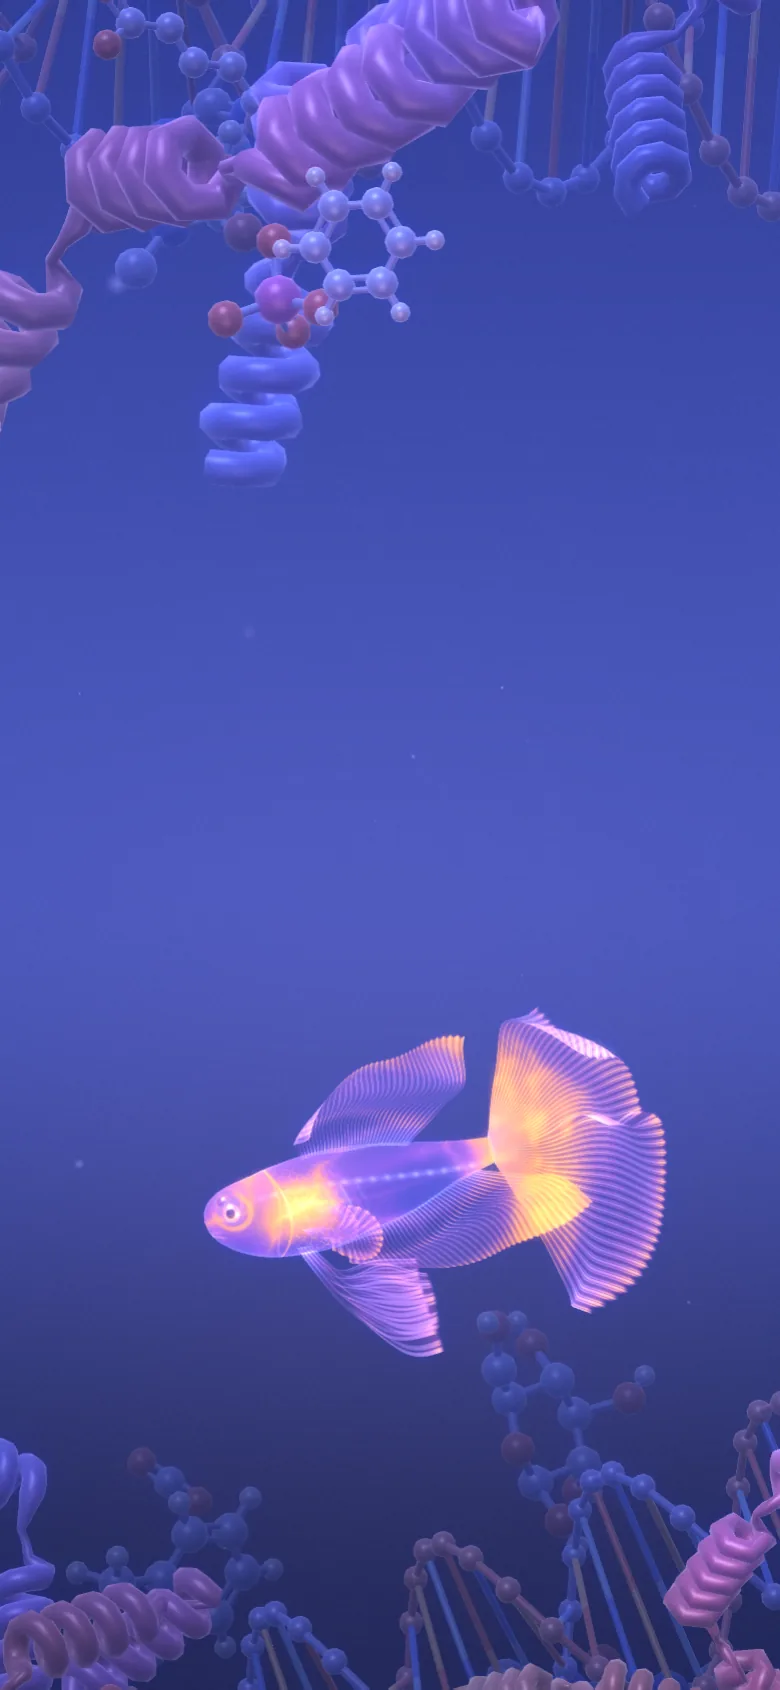
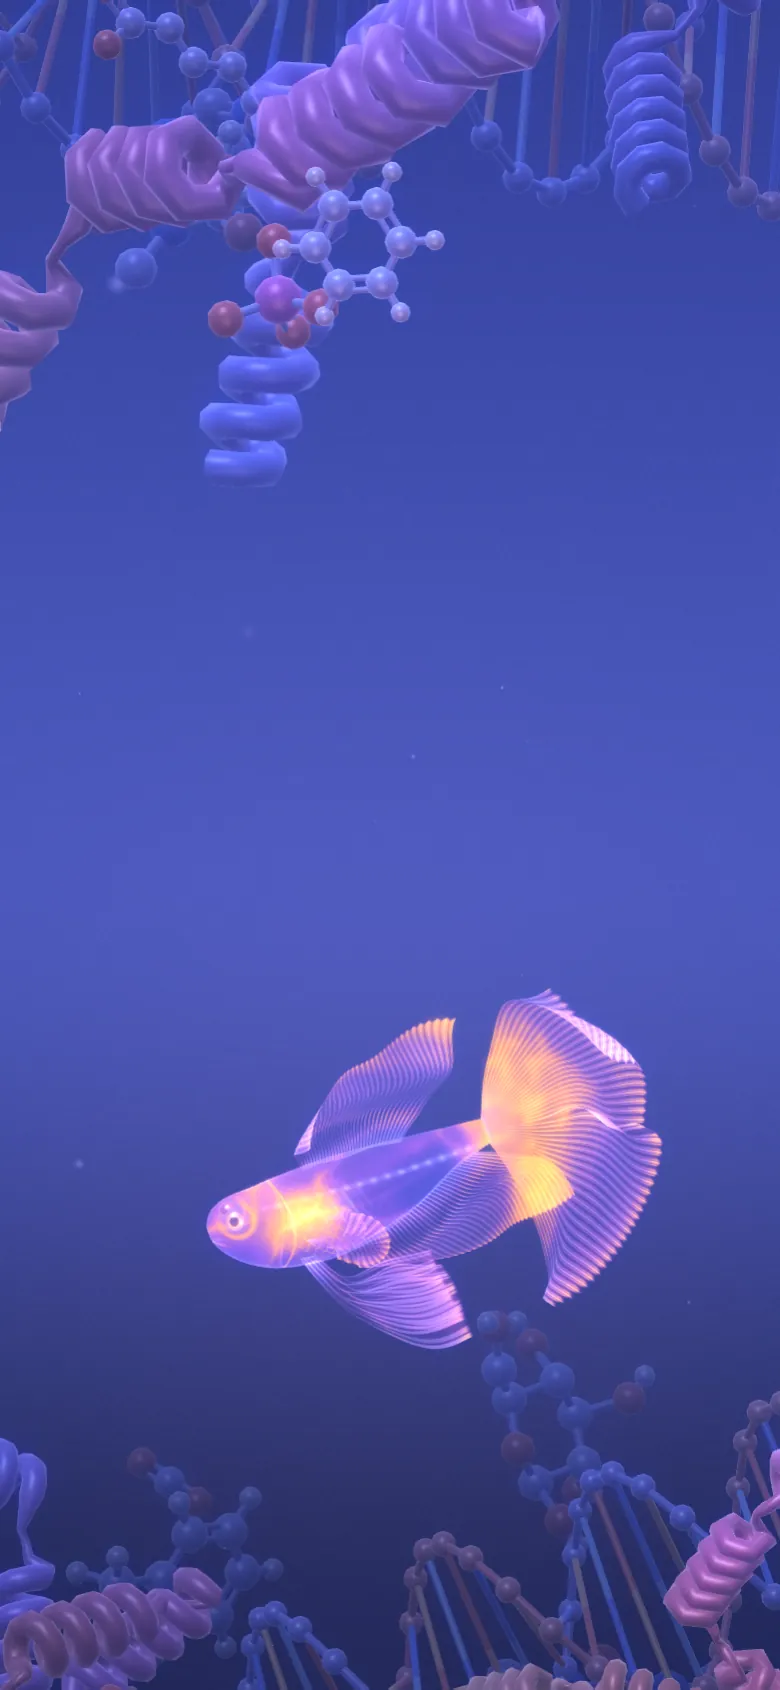
Make the fish body undulate like a swimming fish
A wave now runs from snout to tail and grows toward the tail. It is drawn
mostly in the image plane, since a lateral wave is invisible in side view,
and each body section tilts with the spine so fins and eyes follow it.
The touch zone and the click sparks use the same deformation as the shader.
Posters are regenerated with the new pose, and the README is updated.

Claude-Session: https://claude.ai/code/session_019G1kqDvjGATNWvKmmVUEiP

Changed region(s): [[0.2462, 0.5846, 0.8615, 0.8]]

diff --git a/assets/js/fish.js b/assets/js/fish.js
@@ -273,6 +273,47 @@ export function buildFishGeometry() {
 export const FISH_LENGTH = 1.36;    // museau au bout de la queue, en unités de corps
 const EYE_C = [xOf(EYE_T), yc(EYE_T) + halfHeight(EYE_T) * 0.30];
 
+// ------------------------------------------------------------------ la nage
+// Une onde court du museau à la queue en grandissant : la tête reste presque immobile, la queue balance le plus.
+// De profil, une onde latérale resterait invisible. Elle est donc dessinée surtout dans le plan de l'image (plane),
+// avec un peu de profondeur (depth) pour garder du relief. Chaque section du corps penche avec l'axe, comme dans un
+// corps qui se plie, et les nageoires, les yeux et la zone de toucher suivent la même déformation.
+const SWIM = { k: 7.0, env0: 0.30, plane: 0.88, depth: 0.46 };
+
+/** Déplace le point p (repère du poisson) comme le fait le shader : phase et amp viennent de la nage, bend du virage. */
+export function swimPoint(p, phase, amp, bend) {
+  const s = Math.min(1, Math.max(0, (0.5 - p.x) / FISH_LENGTH));
+  const env = SWIM.env0 + (1 - SWIM.env0) * s * s;
+  const ph = phase - s * SWIM.k;
+  const lat = amp * env * Math.sin(ph);
+  const dlat = amp * (2 * (1 - SWIM.env0) * s * Math.sin(ph) - env * SWIM.k * Math.cos(ph));
+  const sl = -SWIM.plane * dlat / FISH_LENGTH;
+  const cs = 1 / Math.sqrt(1 + sl * sl); const sn = sl * cs;
+  const v = p.y;
+  p.x -= v * sn;
+  p.y = SWIM.plane * lat + v * cs;
+  p.z += SWIM.depth * lat + bend * s * s;
+  return p;
+}
+
+const SWIM_GLSL = /* glsl */ `
+uniform float uPhase; uniform float uSwimAmp; uniform float uBend;
+void swim(inout vec3 p, inout vec3 n, float x){
+  float s = clamp((0.5 - x) / ${FISH_LENGTH.toFixed(2)}, 0.0, 1.0);                // du museau (0) au bout de la queue (1)
+  float env = ${SWIM.env0.toFixed(2)} + ${(1 - SWIM.env0).toFixed(2)} * s * s;
+  float ph = uPhase - s * ${SWIM.k.toFixed(2)};
+  float lat = uSwimAmp * env * sin(ph);
+  float dlat = uSwimAmp * (${(2 * (1 - SWIM.env0)).toFixed(2)} * s * sin(ph) - env * ${SWIM.k.toFixed(2)} * cos(ph));   // pente de l'écart le long du corps
+  float sl = -${SWIM.plane.toFixed(2)} * dlat / ${FISH_LENGTH.toFixed(2)};                      // pente de l'axe dans le plan de l'image
+  float cs = inversesqrt(1.0 + sl * sl); float sn = sl * cs;
+  float v = p.y;
+  p.x -= v * sn;
+  p.y = ${SWIM.plane.toFixed(2)} * lat + v * cs;
+  p.z += ${SWIM.depth.toFixed(2)} * lat + uBend * s * s;
+  n.xy = vec2(n.x * cs - n.y * sn, n.x * sn + n.y * cs);
+  n.x += (${SWIM.depth.toFixed(2)} * dlat + 2.0 * uBend * s) / ${FISH_LENGTH.toFixed(2)} * n.z;
+}`;
+
 // ------------------------------------------------------------------ matière
 // Le corps est translucide : une teinte violette qui se densifie sur les bords, et dessus une lumière vivante.
 // La bioluminescence se compose de quatre choses : de grandes taches orange qui dérivent vers la queue, de fines
@@ -284,7 +325,8 @@ attribute vec3 aFin;    // nageoire : x de la base (0) au bord libre (1), y en t
 attribute vec3 aR;      // direction du rayon (de la base vers le bord libre)
 attribute vec3 aT;      // direction en travers, dans le plan de la nageoire
 attribute vec2 aM;      // longueurs locales : le long du rayon, en travers
-uniform float uPhase; uniform float uFinPhase; uniform float uSwimAmp; uniform float uBend; uniform float uFlutter;
+uniform float uFinPhase; uniform float uFlutter;
+${SWIM_GLSL}
 varying vec3 vN; varying vec3 vW; varying vec3 vP; varying vec4 vBody; varying vec3 vFin; varying float vRip;
 void main(){
   vec3 p = position;
@@ -316,16 +358,8 @@ void main(){
     n = normalize(n - (dhdr / max(aM.x, 1e-3)) * aR - (dhda / max(aM.y, 1e-3)) * aT);
     rip = s1;
   }
-  // la nage : une onde le long du corps, qui grandit vers la queue
-  float s = clamp((0.5 - position.x) / 1.36, 0.0, 1.0);          // du museau (0) au bout de la queue (1)
-  float amp = uSwimAmp * (0.04 + 0.96 * s * s);
-  float ph = uPhase - s * 5.4;
-  float dz = amp * sin(ph) + uBend * s * s;
-  float dzds = uSwimAmp * 1.92 * s * sin(ph) - amp * 5.4 * cos(ph) + uBend * 2.0 * s;
-  p.z += dz;
-  // vue de profil, l'ondulation en profondeur ne se voit pas : on lui ajoute un léger roulis vertical
-  p.y += uSwimAmp * 0.55 * (0.04 + 0.96 * s * s) * sin(ph + 1.3);
-  n.x += dzds / 1.36 * n.z;
+  // la nage : l'onde qui parcourt le corps, des nageoires comprises
+  swim(p, n, position.x);
   vN = normalize(mat3(modelMatrix) * n);
   vec4 w = modelMatrix * vec4(p, 1.0);
   vW = w.xyz; vP = position; vBody = aBody; vFin = aFin; vRip = rip;
@@ -521,16 +555,13 @@ void main(){
 }`;
 
 const EYE_VERT = /* glsl */ `
-uniform float uPhase; uniform float uSwimAmp; uniform float uBend;
+${SWIM_GLSL}
 varying vec3 vN; varying vec3 vW; varying vec3 vL; varying float vSide;
 void main(){
   vec3 p = position;
-  float s = clamp((0.5 - p.x) / 1.36, 0.0, 1.0);
-  float amp = uSwimAmp * (0.04 + 0.96 * s * s);
-  float ph = uPhase - s * 5.4;
-  p.z += amp * sin(ph) + uBend * s * s;
-  p.y += uSwimAmp * 0.55 * (0.04 + 0.96 * s * s) * sin(ph + 1.3);
-  vN = normalize(mat3(modelMatrix) * normal);
+  vec3 n = normal;
+  swim(p, n, position.x);
+  vN = normalize(mat3(modelMatrix) * n);
   vL = normal; vSide = position.z >= 0.0 ? 1.0 : -1.0;
   vec4 w = modelMatrix * vec4(p, 1.0); vW = w.xyz;
   gl_Position = projectionMatrix * viewMatrix * w;

diff --git a/assets/js/scene.js b/assets/js/scene.js
@@ -1,12 +1,12 @@
 // BlackPhage - l'œuvre de l'accueil. Un poisson combattant translucide traverse un monde moléculaire : à mesure qu'on descend la page,
 // il nage de station en station (l'air libre des molécules, l'ADN, la boucle du moteur, une protéine cible et ses liants, une membrane
 // et son récepteur, puis une vue d'ensemble), une station par section. La caméra le suit de profil, c'est le monde qui défile.
-// Il bouge peu : un léger flottement au repos, une nage qui ne s'anime qu'avec le défilement. Un clic sur lui lance une vague de
-// bioluminescence sur son corps (le même geste est possible au clavier).
+// Il reste à sa place à l'écran : un léger flottement, un corps qui ondule en nageant (plus largement quand on défile). Un clic sur lui
+// lance une vague de bioluminescence sur son corps (le même geste est possible au clavier).
 // Rendu three.js, organisé comme une scène react-three-fiber. Sans WebGL, une image fixe prend le relais (voir site.css).
 import * as THREE from 'three';
 import { stage, useFrame, onResize } from './stage.js';
-import { buildFishGeometry, fishUniforms, fishMaterials } from './fish.js';
+import { buildFishGeometry, fishUniforms, fishMaterials, swimPoint } from './fish.js';
 import { buildWorld, cameraRig, STATIONS } from './world.js';
 
 const root = document.documentElement;
@@ -176,7 +176,7 @@ async function start() {
   // ---------------------------------------------------------------- le poisson : état, clics
   const F = {
     pos: new THREE.Vector3(), fwd: new THREE.Vector3(-1, 0, 0.2).normalize(), want: new THREE.Vector3(),
-    lean: new THREE.Vector2(), phase: 0, fin: 0, amp: 0.022, bend: 0, roll: 0, energy: 0.1, hover: 0, lastYaw: 0, u: 0, du: 0,
+    lean: new THREE.Vector2(), phase: 0, fin: 0, amp: 0.085, bend: 0, roll: 0, energy: 0.1, hover: 0, lastYaw: 0, u: 0, du: 0,
   };
   const rig = {};
   const tmp = new THREE.Vector3(); const tmp2 = new THREE.Vector3(); const tmp3 = new THREE.Vector3();
@@ -197,10 +197,12 @@ async function start() {
     [0.02, 0.24, 0.14, 0.50, 1.0], [-0.18, 0.21, 0.11, 0.80, 1.0], [-0.10, -0.22, 0.13, 0.70, -1.0], [-0.24, -0.20, 0.10, 0.90, -1.0], [0.18, -0.30, 0.10, 0.35, -1.0],
   ];
   const proj = spine.map(() => ({ x: 0, y: 0, r: 0 }));
+  /** Un point du poisson, dans le monde, avec la déformation de la nage (la même que dans le shader). */
+  const bodyPoint = (x, y, z, out) => swimPoint(out.set(x, y, z), F.phase, F.amp, F.bend).applyMatrix4(fish.matrix);
   function updateProjection() {
     const pxPerUnit = stage.h / (rig.H || 262);
     for (let i = 0; i < spine.length; i++) {
-      tmp.set(spine[i][0], spine[i][1], 0).applyMatrix4(fish.matrix).project(camera);
+      bodyPoint(spine[i][0], spine[i][1], 0, tmp).project(camera);
       proj[i].x = (tmp.x * 0.5 + 0.5) * stage.w; proj[i].y = (0.5 - tmp.y * 0.5) * stage.h;
       proj[i].r = spine[i][2] * FISH_SCALE * pxPerUnit;
     }
@@ -230,14 +232,14 @@ async function start() {
     if (i < 0) return;
     triggerWave(spine[i][3], spine[i][4], 1.0, stage.time);
     F.hover = 1;
-    emit(tmp.set(spine[i][0], spine[i][1], 0).applyMatrix4(fish.matrix), 30, 60, 1.4);
+    emit(bodyPoint(spine[i][0], spine[i][1], 0, tmp), 30, 60, 1.4);
   }, { passive: true });
   document.addEventListener('pointerleave', () => { ptr.moved = -99; });
 
   // geste au clavier : un bouton caché, pour que tout le monde puisse toucher le poisson
   document.querySelectorAll('[data-fish-wave]').forEach((b) => b.addEventListener('click', () => {
     triggerWave(0.30, 0.0, 1.0, stage.time);
-    emit(tmp.set(0.1, 0, 0).applyMatrix4(fish.matrix), 30, 60, 1.4);
+    emit(bodyPoint(0.1, 0, 0, tmp), 30, 60, 1.4);
   }));
 
   // ---------------------------------------------------------------- boucle
@@ -285,13 +287,13 @@ async function start() {
     F.bend += (clamp(-yawRate * 0.04, -0.08, 0.08) - F.bend) * (1 - Math.exp(-3 * dt));
     F.roll += (clamp(-yawRate * 0.10, -0.25, 0.25) - F.roll) * (1 - Math.exp(-3 * dt));
 
-    // ---- la nage : calme au repos, un peu plus vive quand on défile
-    F.phase += dt * Math.PI * 2 * (0.40 + 0.85 * sp01);
+    // ---- la nage : le corps ondule en douceur au repos, plus ample et plus vif quand on défile
+    F.phase += dt * Math.PI * 2 * (0.55 + 0.70 * sp01);
     F.fin += dt * (1.20 + 1.3 * sp01);
-    F.amp += ((0.020 + 0.028 * sp01) - F.amp) * (1 - Math.exp(-2.5 * dt));
+    F.amp += ((0.085 + 0.045 * sp01) - F.amp) * (1 - Math.exp(-2.5 * dt));
     F.energy += ((0.10 + 0.45 * sp01) - F.energy) * (1 - Math.exp(-0.9 * dt));
     F.hover += (0 - F.hover) * (1 - Math.exp(-1.5 * dt));
-    if (reduce) { F.phase = t * 3.0; F.fin = t * 1.6; F.amp = 0.03; F.bend = 0; F.roll = 0; F.energy = 0.35; }
+    if (reduce) { F.phase = t * 3.0; F.fin = t * 1.6; F.amp = 0.095; F.bend = 0; F.roll = 0; F.energy = 0.35; }
 
     // la base du poisson : x = cap, y = haut, z = côté, avec un petit roulis autour du cap
     sideV.crossVectors(F.fwd, UP); if (sideV.lengthSq() < 1e-4) sideV.set(0, 0, 1); sideV.normalize();

diff --git a/README.md b/README.md
@@ -63,8 +63,8 @@ de l'ADN, des protéines en rubans, une membrane et son récepteur, et des lueur
 
 | Élément | Où | Rôle |
 | --- | --- | --- |
-| **Le poisson** | `assets/js/fish.js` | Un combattant construit par code, sans fichier de modèle : un corps fin et translucide (écailles qui s'allument, squelette vu par transparence, opercule), des **yeux de verre** (un liseré violet, un iris doré translucide, une pupille qui laisse voir à travers) et de grandes nageoires en voile avec leurs rayons (queue en éventail, dorsale, anale, ventrales en rubans, pectorales). Chaque nageoire porte une **onde qui court de sa base vers son bord libre**, en travers du plan et dans le plan, et la lumière suit le relief du voile. La bioluminescence se compose de grandes taches, de veines, de vagues régulières qui descendent le corps et d'impulsions qui filent le long des rayons. |
-| **Le parcours** | `assets/js/scene.js` | **Six stations, une par section de l'accueil.** Le défilement, lissé, avance le poisson le long d'un chemin ; la caméra le suit de profil, c'est le monde qui défile. Il bouge peu : un léger flottement au repos, une nage plus vive seulement quand on défile, et il penche à peine vers le pointeur. **Un clic ou une touche sur lui lance une vague de bioluminescence** qui part du point touché, traverse le corps puis s'allume dans les nageoires. Un bouton caché (`data-fish-wave`, visible au focus) permet le même geste au clavier. Rendu three.js, organisé comme une scène react-three-fiber. |
+| **Le poisson** | `assets/js/fish.js` | Un combattant construit par code, sans fichier de modèle : un corps fin et translucide (écailles qui s'allument, squelette vu par transparence, opercule), des **yeux de verre** (un liseré violet, un iris doré translucide, une pupille qui laisse voir à travers) et de grandes nageoires en voile avec leurs rayons (queue en éventail, dorsale, anale, ventrales en rubans, pectorales). **Le corps ondule comme en nageant** : une onde court du museau à la queue en grandissant (la tête presque immobile, la queue qui balance le plus), dessinée dans le plan que voit la caméra puisqu'une onde latérale resterait invisible de profil, et chaque section du corps penche avec l'axe, nageoires et yeux compris. Chaque nageoire porte en plus une **onde qui court de sa base vers son bord libre**, en travers du plan et dans le plan, et la lumière suit le relief du voile. La bioluminescence se compose de grandes taches, de veines, de vagues régulières qui descendent le corps et d'impulsions qui filent le long des rayons. |
+| **Le parcours** | `assets/js/scene.js` | **Six stations, une par section de l'accueil.** Le défilement, lissé, avance le poisson le long d'un chemin ; la caméra le suit de profil, c'est le monde qui défile. Il reste à sa place à l'écran : un léger flottement, un corps qui ondule doucement au repos et plus largement quand on défile, et il penche à peine vers le pointeur. **Un clic ou une touche sur lui lance une vague de bioluminescence** qui part du point touché, traverse le corps puis s'allume dans les nageoires. Un bouton caché (`data-fish-wave`, visible au focus) permet le même geste au clavier. Rendu three.js, organisé comme une scène react-three-fiber. |
 | **Le monde** | `assets/js/world.js`, `assets/js/molecules.js` | Tout est du code. Station 1 : l'air libre des petites molécules (eau, benzène, sucre, purine, acide aminé, phosphate) ; 2 : la double hélice d'ADN ; 3 : la boucle du moteur, un anneau de molécules qui tourne ; 4 : la protéine cible, de verre, et ses liants ; 5 : la membrane (deux feuillets de sphères) et ses récepteurs à sept hélices ; 6 : une vue d'ensemble. Les molécules sont instanciées (une commande de dessin par modèle et par tranche du chemin), la brume de profondeur fond les formes lointaines dans le fond, **le poisson éclaire les molécules voisines**, et une voie reste libre autour de lui pour qu'il se lise. Chaque ensemble n'est dessiné que près de l'endroit où il se trouve. |
 | **La brume** | `assets/js/mist.js` | Le ciel des pages intérieures : indigo, nappes de lumière qui dérivent, poussières lumineuses. Un petit rendu WebGL2 sans bibliothèque. |
 | **La protéine** | `assets/js/protein.js`, `assets/data/surface.json` | Sur la page d'un programme, une surface en verre réfracte la brume et s'allume de l'intérieur de la même lumière corail que le poisson. Le même maillage sert de protéine cible dans le monde de l'accueil. |
@@ -82,7 +82,7 @@ L'image sert aussi de premier affichage, puis fond vers la scène vivante. Avec 
 avec une vague de lumière sur le corps du poisson. Si l'appareil peine, la qualité baisse toute seule (résolution, lissage, nombre de molécules, de rubans et de lipides).
 
 Réglages utiles : `PATH` (le chemin, une station par point), `corridor()` (la voie libre autour du poisson, la densité), `N` (nombre de petites molécules) et `buildWorld()` dans `world.js` ;
-`cameraRig()` (où le poisson apparaît à l'écran, la distance) ; les amplitudes de nage et d'ondulation (`F.amp`, `F.fin`, `uFlutter`) dans la boucle de `scene.js` ;
+`cameraRig()` (où le poisson apparaît à l'écran, la distance) ; les amplitudes de nage et d'ondulation (`F.amp`, `F.phase`, `F.fin`, `uFlutter`) dans la boucle de `scene.js`, et la forme de l'onde du corps (`SWIM` dans `fish.js` : nombre d'ondes, part de la tête, plan de l'onde) ;
 les amplitudes d'ondulation de chaque nageoire (`kr`, `ka`, `ao`, `ai`) dans `FISH_VERT` de `fish.js`.
 Ajoutez `?t=4` à l'adresse de l'accueil pour figer l'animation sur cet instant (captures d'écran, tests), et `?u=3` (de 0 à 5) pour choisir la station affichée.
 
